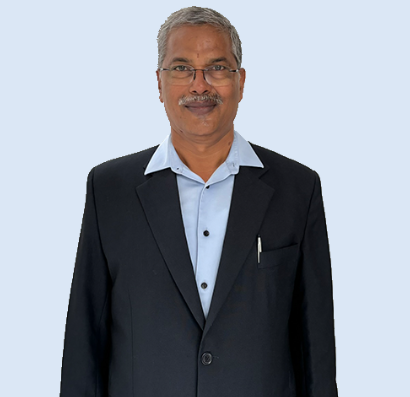
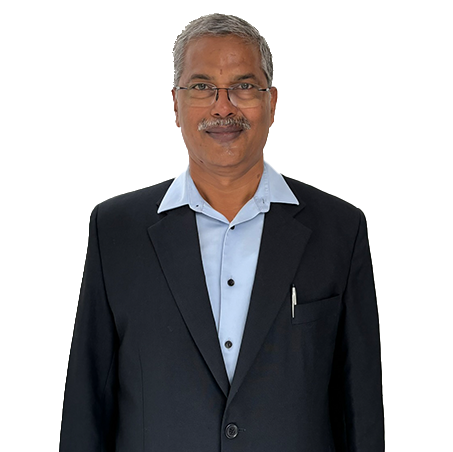
10-10-2024

diff --git a/contact.html b/contact.html
@@ -289,97 +289,121 @@ li{
                     <p>Get In Touch</p>
                     <h2>For Any Query</h2>
                 </div>
-                <div class="row">
-                    <div class="col-12 col-md-6">
-                        <div class="contact-info">
-                            <div class="contact-item">
-                                <i class="flaticon-address"></i>
-                                <div class="contact-text">
-                                    <h2>Location</h2>
-                                    <p>Hyderabad- Flat No Bo-10, Indu Fortune Fields, Annexe, Kphb colony, Kukatpally,
-                                        Hyderabad, Telangana-500085
-                                        .</p>
+                <div class="container">
+                    <div class="container">
+                        <div class="row">
+                            <div class="col-12 col-sm-12 col-md-6 mb-4"> <!-- Use col-sm-12 to ensure full width on small devices -->
+                                <div class="contact-info">
+                                    <div class="contact-item mb-4">
+                                        <i class="flaticon-address"></i>
+                                        <div class="contact-text">
+                                            <h2>Location</h2>
+                                            <p>Hyderabad- Flat No Bo-10, Indu Fortune Fields, Annexe, Kphb colony, Kukatpally,
+                                                Hyderabad, Telangana-500085.</p>
+                                        </div>
+                                    </div>
+                                    <div class="contact-item mb-4">
+                                        <i class="flaticon-call"></i>
+                                        <div class="contact-text">
+                                            <h2>Phone</h2>
+                                            <p>+91 4071385954</p>
+                                        </div>
+                                    </div>
+                                    <div class="contact-item mb-4">
+                                        <i class="flaticon-send-mail"></i>
+                                        <div class="contact-text">
+                                            <h2>Email</h2>
+                                            <p>info@kvpl.org</p>
+                                        </div>
+                                    </div>
                                 </div>
                             </div>
-                            <div class="contact-item">
-                                <i class="flaticon-call"></i>
-                                <div class="contact-text">
-                                    <h2>Phone</h2>
-                                    <p>+91 4071385954</p>
-                                    <!-- <p>
-
-                                        +91 7999999990</p> -->
-                                </div>
-                            </div>
-                            <div class="contact-item">
-                                <i class="flaticon-send-mail"></i>
-                                <div class="contact-text">
-                                    <h2>Email</h2>
-                                    <p>info@kvpl.org</p>
+                    
+                            <div class="col-12 col-sm-12 col-md-6"> <!-- Again, use col-sm-12 for full width on smaller devices -->
+                                <div class="contact-form">
+                                    <div id="success"></div>
+                                    <form name="sentMessage" id="contactForm">
+                                        <div class="control-group mb-3">
+                                            <input type="text" class="form-control" id="name" name="name" placeholder="Your Name" required />
+                                            <p class="help-block text-danger"></p>
+                                        </div>
+                                        <div class="control-group mb-3">
+                                            <input type="email" class="form-control" id="email" name="email" placeholder="Your Email" required />
+                                            <p class="help-block text-danger"></p>
+                                        </div>
+                                        <div class="control-group mb-3">
+                                            <input type="text" class="form-control" id="subject" name="subject" placeholder="Subject" required />
+                                            <p class="help-block text-danger"></p>
+                                        </div>
+                                        <div class="control-group mb-3">
+                                            <textarea class="form-control" id="message" name="message" placeholder="Message" required></textarea>
+                                            <p class="help-block text-danger"></p>
+                                        </div>
+                                        <div>
+                                            <button class="btn btn-primary btn-block" type="submit" id="sendMessageButton">Send Message</button>
+                                        </div>
+                                    </form>
                                 </div>
                             </div>
                         </div>
-                    </div>
-                    <div class="col-12 col-md-6">
-                        <div class="contact-form">
-                            <div id="success"></div>
-                            <form name="sentMessage" id="contactForm">
-                                <div class="control-group">
-                                    <input type="text" class="form-control" id="name" name="name" placeholder="Your Name" required="required" />
-                                    <p class="help-block text-danger"></p>
-                                </div>
-                                <div class="control-group">
-                                    <input type="email" class="form-control" id="email" name="email" placeholder="Your Email" required="required" />
-                                    <p class="help-block text-danger"></p>
-                                </div>
-                                <div class="control-group">
-                                    <input type="text" class="form-control" id="subject" name="subject" placeholder="Subject" required="required" />
-                                    <p class="help-block text-danger"></p>
-                                </div>
-                                <div class="control-group">
-                                    <textarea class="form-control" id="message" name="message" placeholder="Message" required="required"></textarea>
-                                    <p class="help-block text-danger"></p>
-                                </div>
-                                <div>
-                                    <button class="btn" type="submit" id="sendMessageButton">Send Message</button>
-                                </div>
-                            </form>
-                        </div>
-                        
-                        <script>
-                            document.getElementById('contactForm').addEventListener('submit', function(event) {
-                                event.preventDefault(); // Prevent the form from submitting in the traditional way
-                        
-                                var formData = new FormData(this);
-                        
-                                fetch('https://script.google.com/macros/s/AKfycbxZUa7DOXjIVY5qJPjXCzKu7s3YmiLZjHzeJMnzWEUwHzKNhctFRg7HmP02m7quB_S3/exec', { // Update this line with your actual deployment URL
-                                    
-                                    method: 'POST',
-                                    body: formData,
-                                })
-                                .then(response => {
-                                    if (!response.ok) { // Check if response is OK
-                                        throw new Error('Network response was not ok ' + response.statusText);
-                                    }
-                                    return response.text();
-                                })
-                                .then(data => {
-                                    console.log('Response Data:', data); // Log the response data
-                                    document.getElementById('success').innerText = data; // Display success message
-                                })
-                                .catch(error => {
-                                    console.error('Error:', error);
-                                    document.getElementById('success').innerText = 'There was an error submitting the form: ' + error.message;
-                                });
-                            });
-                        </script>
-                        
-                        
-                        
-                                                    
                     </div>
                     
+                    <script>
+                        document.getElementById('contactForm').addEventListener('submit', function(event) {
+                            event.preventDefault(); // Prevent the form from submitting in the traditional way
+                    
+                            var formData = new FormData(this);
+                    
+                            fetch('https://script.google.com/macros/s/AKfycbxZUa7DOXjIVY5qJPjXCzKu7s3YmiLZjHzeJMnzWEUwHzKNhctFRg7HmP02m7quB_S3/exec', {
+                                method: 'POST',
+                                body: formData,
+                            })
+                            .then(response => {
+                                if (!response.ok) { // Check if response is OK
+                                    throw new Error('Network response was not ok ' + response.statusText);
+                                }
+                                return response.text();
+                            })
+                            .then(data => {
+                                console.log('Response Data:', data); // Log the response data
+                                document.getElementById('success').innerText = data; // Display success message
+                            })
+                            .catch(error => {
+                                console.error('Error:', error);
+                                document.getElementById('success').innerText = 'There was an error submitting the form: ' + error.message;
+                            });
+                        });
+                    </script>
+                    
                 </div>
+                
+                <script>
+                    document.getElementById('contactForm').addEventListener('submit', function(event) {
+                        event.preventDefault(); // Prevent the form from submitting in the traditional way
+                
+                        var formData = new FormData(this);
+                
+                        fetch('https://script.google.com/macros/s/AKfycbxZUa7DOXjIVY5qJPjXCzKu7s3YmiLZjHzeJMnzWEUwHzKNhctFRg7HmP02m7quB_S3/exec', {
+                            method: 'POST',
+                            body: formData,
+                        })
+                        .then(response => {
+                            if (!response.ok) { // Check if response is OK
+                                throw new Error('Network response was not ok ' + response.statusText);
+                            }
+                            return response.text();
+                        })
+                        .then(data => {
+                            console.log('Response Data:', data); // Log the response data
+                            document.getElementById('success').innerText = data; // Display success message
+                        })
+                        .catch(error => {
+                            console.error('Error:', error);
+                            document.getElementById('success').innerText = 'There was an error submitting the form: ' + error.message;
+                        });
+                    });
+                </script>
+                
                 
             </div>
         </div>

diff --git a/index.html b/index.html
@@ -510,10 +510,10 @@
 
             <div class="row align-items-center mt-5">
                       
-                <div class="col-12 col-lg-8 col-md-6">
+                <div class="col-12 col-lg-8 col-md-12">
                     <div class="section-header text-left">
                         <h2>CEO</h2>
-                        <p style="color: black;"></p>DORABABU KOTHARU
+                        <p style="color: black;">DORABABU KOTHARU</p>
                        
                     </div>
                     <div class="about-text">   
@@ -528,16 +528,16 @@
                                     font-size: 16px;
                                 }
                             </style>
-                            <a href=""><i class="fab fa-twitter"></i></a>
+                            <!-- <a href=""><i class="fab fa-twitter"></i></a>
                             <a href=""><i class="fab fa-facebook-f"></i></a>
                             <a href=""><i class="fab fa-linkedin-in"></i></a>
                             <a href=""><i class="fab fa-instagram"></i></a>
-                            <a href=""><i class="fab fa-youtube"></i></a>
+                            <a href=""><i class="fab fa-youtube"></i></a> -->
                         </div>
                        
                     </div>
                 </div>
-                <div class="col-12 col-lg-4 col-md-5">
+                <div class="col-12 col-lg-4 col-md-12">
                     <div class="about-img">
                         <img src="./img/myPics/Screenshot 2024-10-09 222727.png" alt="Image" width="20%">
                     </div>
@@ -578,7 +578,7 @@
             <!-- Mission End-->
             <!-- Landscape -->
             <div class="row" style="margin-top: 3%;">
-                <h3 align="left">INTERIOR DESIGN</h3>
+                <h3 align="left" class="headings">INTERIOR DESIGN</h3>
 
                 <div class="col-12 col-md-12 col-lg-6 ">
 
@@ -719,7 +719,7 @@
             <!-- ENGINEERING -->
 
             <div class="row" style="margin-top: 3%;">
-                <h3 align="left">ENGINEERING</h3>
+                <h3 align="left" class="headings">ENGINEERING</h3>
 
                 <div class="col-12 col-md-12 col-lg-6 ">
 
@@ -1612,7 +1612,7 @@
             <div class="container copyright mt-5">
                 <div class="row">
                     <div class="col-md-12 text-center">
-                        <h2 style=" font-family: Gothic A1, sans-serif;font-size: 25px;">CREATIVITY MEETS RESPONSIBILITY</h2>
+                        <h3 style=" font-family: Gothic A1, sans-serif;font-size: 25px;">CREATIVITY MEETS RESPONSIBILITY</h3>
                         <p style="font-size: 15px;">&copy; <a href="">KOTHARU VENTURES</a>, All Right Reserved.</p>
                         <p>Designed By <a href="">AY</a></p>
                     </div>

diff --git a/portfolio.html b/portfolio.html
@@ -207,7 +207,7 @@
             <div class="offcanvas offcanvas-start text-black" tabindex="-1" id="offcanvasNavbar"
                 aria-labelledby="offcanvasNavbarLabel" style="background-color: #fff; width: 150px;">
                 <div class="offcanvas-header">
-                    <!-- <h5 class="offcanvas-title" id="offcanvasNavbarLabel" style="color:black">KOTHARU</h5> -->
+                    <h5 class="offcanvas-title" id="offcanvasNavbarLabel" style="color:white">KOTHARU</h5>
                     <button type="button" class="btn-close text-reset" data-bs-dismiss="offcanvas"
                         aria-label="Close"></button>
                 </div>
@@ -240,7 +240,7 @@
 
 
 <!-- Portfolio Start -->
-<section style="margin-top: 0%;">
+<section style="margin-top: -4%;">
     <div class="portfolio">
         <div class="container">
             <div class="row">

diff --git a/css/style.css b/css/style.css
@@ -148,6 +148,9 @@ a:focus {
     .top-bar .logo {
         text-align: center;
     }
+    .headings{
+        font-size: 40px;
+    }
 }
 
 
@@ -474,7 +477,7 @@ a:focus {
 
 .section-header p {
     color: #fff;
-    font-size: 18px;
+    font-size: 27px;
     font-weight: 600;
     margin-bottom: 5px;
 }
@@ -489,6 +492,9 @@ a:focus {
 @media (max-width: 767.98px) {
     .section-header h2 {
         font-size: 30px;
+    }
+    .section-header p{
+        font-size: 25px;
     }
 }
 
